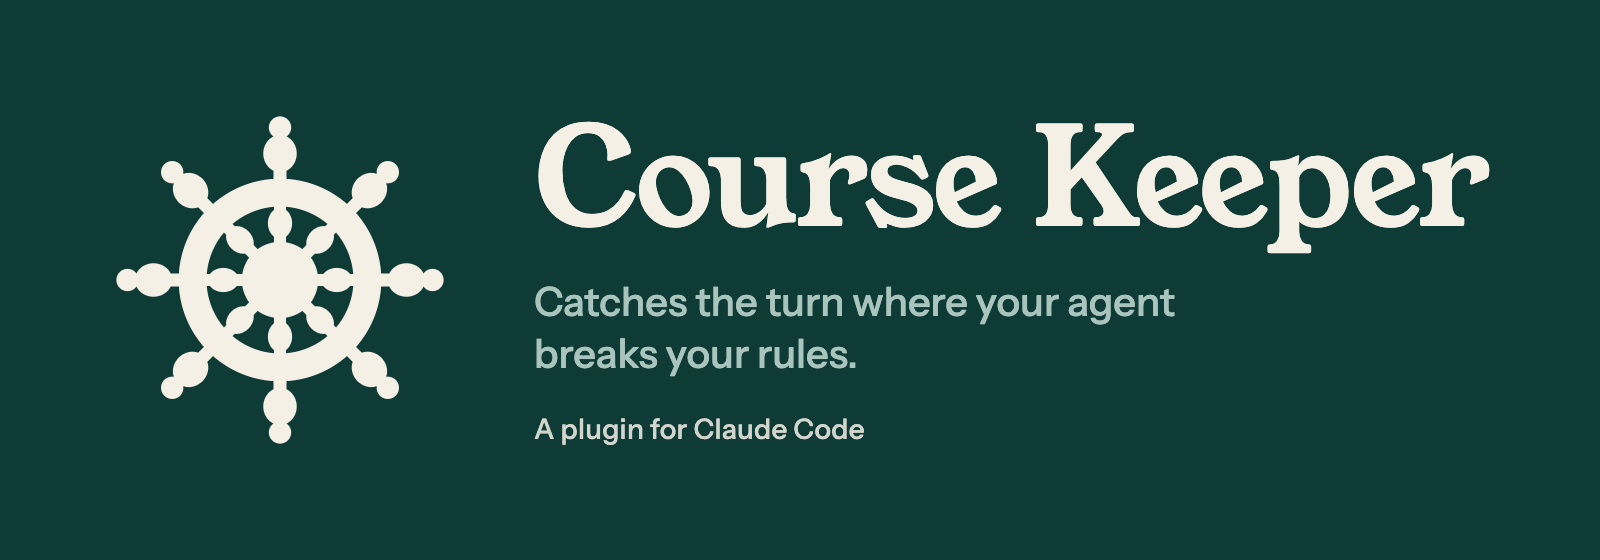
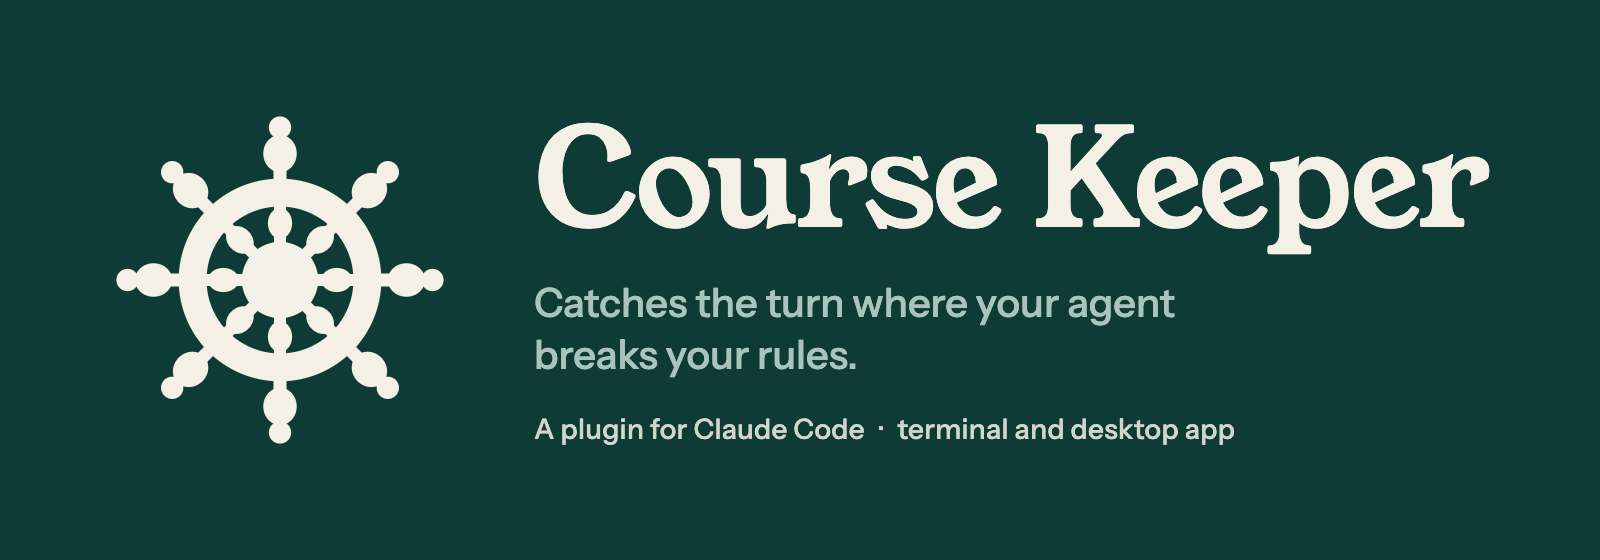
Show the README to desktop app users and how to install there (#22)
* Show the README to desktop app users and how to install there

The README spoke only to terminal users, so people who run Claude Code in
the desktop app could not tell that Course Keeper works there. The page now
opens with a real screenshot of the alert card in the desktop app (light and
dark), names both surfaces in the pitch and the banner, and gives install
steps for the desktop app's Plugins page next to the terminal command. How
it works explains the card's buttons beside the terminal keys, and Limits
says that cloud and WSL sessions get no plugins from the computer.

* Give the desktop install both menu layouts and the scope rule

Codex review: the + menu shows Plugins instead of Add plugins in some app
layouts, and only user scope makes one install cover every project.

* Name the Customize sidebar, the Details parts and the false-alarm confirm

Bounded re-review: the desktop sidebar can say Customize, the card shows
instead and the quote only under Details, False alarm needs a second
press, and the cloud limit holds for user and local scope.

---------

diff --git a/docs/images/source/banner.html b/docs/images/source/banner.html
@@ -13,5 +13,5 @@ p.by{color:var(--cream);font-size:calc(var(--t)*.7);margin-top:calc(var(--tgap)*
 </style></head><body style="--pad:110px;--gap:84px;--wheel:340px;--h:136px;--t:40px;--tgap:28px;--measure:900px">
 <div class="wheel"><svg viewBox="0 0 1024 1024" xmlns="http://www.w3.org/2000/svg"><g transform="translate(512 512) scale(1.4)" fill="#F4F0E6"><circle r="188" fill="none" stroke="#F4F0E6" stroke-width="60"/><circle r="82"/><g transform="rotate(0)"><rect x="-13" y="-170" width="26" height="100"/><ellipse cx="0" cy="-122" rx="26" ry="33"/><rect x="-14" y="-250" width="28" height="40"/><ellipse cx="0" cy="-272" rx="36" ry="40"/><rect x="-11" y="-320" width="22" height="22"/><circle cx="0" cy="-328" r="24"/></g><g transform="rotate(45)"><rect x="-13" y="-170" width="26" height="100"/><ellipse cx="0" cy="-122" rx="26" ry="33"/><rect x="-14" y="-250" width="28" height="40"/><ellipse cx="0" cy="-272" rx="36" ry="40"/><rect x="-11" y="-320" width="22" height="22"/><circle cx="0" cy="-328" r="24"/></g><g transform="rotate(90)"><rect x="-13" y="-170" width="26" height="100"/><ellipse cx="0" cy="-122" rx="26" ry="33"/><rect x="-14" y="-250" width="28" height="40"/><ellipse cx="0" cy="-272" rx="36" ry="40"/><rect x="-11" y="-320" width="22" height="22"/><circle cx="0" cy="-328" r="24"/></g><g transform="rotate(135)"><rect x="-13" y="-170" width="26" height="100"/><ellipse cx="0" cy="-122" rx="26" ry="33"/><rect x="-14" y="-250" width="28" height="40"/><ellipse cx="0" cy="-272" rx="36" ry="40"/><rect x="-11" y="-320" width="22" height="22"/><circle cx="0" cy="-328" r="24"/></g><g transform="rotate(180)"><rect x="-13" y="-170" width="26" height="100"/><ellipse cx="0" cy="-122" rx="26" ry="33"/><rect x="-14" y="-250" width="28" height="40"/><ellipse cx="0" cy="-272" rx="36" ry="40"/><rect x="-11" y="-320" width="22" height="22"/><circle cx="0" cy="-328" r="24"/></g><g transform="rotate(225)"><rect x="-13" y="-170" width="26" height="100"/><ellipse cx="0" cy="-122" rx="26" ry="33"/><rect x="-14" y="-250" width="28" height="40"/><ellipse cx="0" cy="-272" rx="36" ry="40"/><rect x="-11" y="-320" width="22" height="22"/><circle cx="0" cy="-328" r="24"/></g><g transform="rotate(270)"><rect x="-13" y="-170" width="26" height="100"/><ellipse cx="0" cy="-122" rx="26" ry="33"/><rect x="-14" y="-250" width="28" height="40"/><ellipse cx="0" cy="-272" rx="36" ry="40"/><rect x="-11" y="-320" width="22" height="22"/><circle cx="0" cy="-328" r="24"/></g><g transform="rotate(315)"><rect x="-13" y="-170" width="26" height="100"/><ellipse cx="0" cy="-122" rx="26" ry="33"/><rect x="-14" y="-250" width="28" height="40"/><ellipse cx="0" cy="-272" rx="36" ry="40"/><rect x="-11" y="-320" width="22" height="22"/><circle cx="0" cy="-328" r="24"/></g></g></svg></div>
 <div><h1>Course Keeper</h1>
-<p>Catches the turn where your agent<br>breaks your rules.</p><p class="by">A plugin for Claude Code</p></div>
+<p>Catches the turn where your agent<br>breaks your rules.</p><p class="by">A plugin for Claude Code&ensp;·&ensp;terminal and desktop app</p></div>
 </body></html>

diff --git a/docs/images/source/social-preview.html b/docs/images/source/social-preview.html
@@ -13,5 +13,5 @@ p.by{color:var(--cream);font-size:calc(var(--t)*.7);margin-top:calc(var(--tgap)*
 </style></head><body style="--pad:96px;--gap:72px;--wheel:320px;--h:108px;--t:34px;--tgap:24px;--measure:660px">
 <div class="wheel"><svg viewBox="0 0 1024 1024" xmlns="http://www.w3.org/2000/svg"><g transform="translate(512 512) scale(1.4)" fill="#F4F0E6"><circle r="188" fill="none" stroke="#F4F0E6" stroke-width="60"/><circle r="82"/><g transform="rotate(0)"><rect x="-13" y="-170" width="26" height="100"/><ellipse cx="0" cy="-122" rx="26" ry="33"/><rect x="-14" y="-250" width="28" height="40"/><ellipse cx="0" cy="-272" rx="36" ry="40"/><rect x="-11" y="-320" width="22" height="22"/><circle cx="0" cy="-328" r="24"/></g><g transform="rotate(45)"><rect x="-13" y="-170" width="26" height="100"/><ellipse cx="0" cy="-122" rx="26" ry="33"/><rect x="-14" y="-250" width="28" height="40"/><ellipse cx="0" cy="-272" rx="36" ry="40"/><rect x="-11" y="-320" width="22" height="22"/><circle cx="0" cy="-328" r="24"/></g><g transform="rotate(90)"><rect x="-13" y="-170" width="26" height="100"/><ellipse cx="0" cy="-122" rx="26" ry="33"/><rect x="-14" y="-250" width="28" height="40"/><ellipse cx="0" cy="-272" rx="36" ry="40"/><rect x="-11" y="-320" width="22" height="22"/><circle cx="0" cy="-328" r="24"/></g><g transform="rotate(135)"><rect x="-13" y="-170" width="26" height="100"/><ellipse cx="0" cy="-122" rx="26" ry="33"/><rect x="-14" y="-250" width="28" height="40"/><ellipse cx="0" cy="-272" rx="36" ry="40"/><rect x="-11" y="-320" width="22" height="22"/><circle cx="0" cy="-328" r="24"/></g><g transform="rotate(180)"><rect x="-13" y="-170" width="26" height="100"/><ellipse cx="0" cy="-122" rx="26" ry="33"/><rect x="-14" y="-250" width="28" height="40"/><ellipse cx="0" cy="-272" rx="36" ry="40"/><rect x="-11" y="-320" width="22" height="22"/><circle cx="0" cy="-328" r="24"/></g><g transform="rotate(225)"><rect x="-13" y="-170" width="26" height="100"/><ellipse cx="0" cy="-122" rx="26" ry="33"/><rect x="-14" y="-250" width="28" height="40"/><ellipse cx="0" cy="-272" rx="36" ry="40"/><rect x="-11" y="-320" width="22" height="22"/><circle cx="0" cy="-328" r="24"/></g><g transform="rotate(270)"><rect x="-13" y="-170" width="26" height="100"/><ellipse cx="0" cy="-122" rx="26" ry="33"/><rect x="-14" y="-250" width="28" height="40"/><ellipse cx="0" cy="-272" rx="36" ry="40"/><rect x="-11" y="-320" width="22" height="22"/><circle cx="0" cy="-328" r="24"/></g><g transform="rotate(315)"><rect x="-13" y="-170" width="26" height="100"/><ellipse cx="0" cy="-122" rx="26" ry="33"/><rect x="-14" y="-250" width="28" height="40"/><ellipse cx="0" cy="-272" rx="36" ry="40"/><rect x="-11" y="-320" width="22" height="22"/><circle cx="0" cy="-328" r="24"/></g></g></svg></div>
 <div><h1>Course Keeper</h1>
-<p>Catches the turn where your agent<br>breaks your rules.</p><p class="by">A plugin for Claude Code</p></div>
+<p>Catches the turn where your agent<br>breaks your rules.</p><p class="by">A plugin for Claude Code&ensp;·&ensp;terminal and desktop app</p></div>
 </body></html>

diff --git a/README.md b/README.md
@@ -1,26 +1,39 @@
 <p align="center">
-  <img src="docs/images/banner.png" alt="Course Keeper. Catches the turn where your agent breaks your rules. A plugin for Claude Code." width="800">
+  <img src="docs/images/banner.png" alt="Course Keeper. Catches the turn where your agent breaks your rules. A plugin for Claude Code, in the terminal and the desktop app." width="800">
 </p>
 
 You wrote down how your project works. One module handles money. The tool never sends an invoice. Three hours into a session, your agent takes a shortcut that breaks one of those rules, and you find it in review the next day.
 
-**Course Keeper checks every turn of a Claude Code session against your project's rules.** When the agent breaks one, an alert appears above the prompt at that turn. It names the rule, says what the agent is doing and what it should do instead, and quotes the agent. One key sends that note to the agent.
+**Course Keeper checks every turn of a Claude Code session against your project's rules, in the terminal and in the Claude desktop app.** When the agent breaks one, an alert appears above the prompt at that turn. It names the rule and says what the agent is doing. It also says what the agent should do instead and quotes the agent; in the desktop app, **Details** shows those two parts. One click or key sends that note to the agent.
 
-![A Claude Code session. The agent proposes to round invoice totals in the exporter. Below its answer, a framed Course Keeper alert says that the session breaks invariant 1, "One module computes every amount", states what the agent is doing and what it should do instead, quotes the agent, and offers four buttons: Tell the agent, Details, False alarm and Dismiss.](docs/images/alert.png)
+<p align="center">
+  <picture>
+    <source media="(prefers-color-scheme: dark)" srcset="docs/images/desktop-alert-dark.png">
+    <img src="docs/images/desktop-alert-light.png" width="720" alt="A Claude Code session in the Claude desktop app. The person asks the agent to print the VAT under the invoice total and to change only exporter.py. The agent computes the VAT in exporter.py. Above the prompt, a Course Keeper card says that the session breaks the rule &quot;One module computes every amount&quot;, says that the session added VAT math to exporter.py instead of money.py, offers three buttons, Tell the agent, Details and False alarm, and has a close button.">
+  </picture>
+</p>
 
-<sub>The agent's one-line fix rounds money outside the one module that the project's rule allows. The session is staged with a scripted model reply.</sub>
+<sub>Told to change only `exporter.py`, the agent computes the VAT there, outside the one module that the project's rule allows. The session ran live in the desktop app, on a throwaway project.</sub>
 
 ## Quick start
 
-You need Claude Code 2.1.323 or later (`claude --version`).
+You need Claude Code 2.1.323 or later. Check with `claude --version` in a shell, or with `/status` in a session of the desktop app.
 
-1. Install the plugin at the prompt of a Claude Code session:
+1. Install the plugin. The terminal and the desktop app on one computer share their plugins. Choose user scope, and one install covers every project in both; project and local scope apply to one repository.
+
+   **In the terminal**, at the prompt of a Claude Code session:
 
    ```
    /plugin install course-keeper --marketplace chapati23/course-keeper
    ```
 
    Answer `y` to add the marketplace, then choose a scope. Claude Code then asks for two file names; keep the defaults.
+
+   **In the desktop app**, in the **Code** tab:
+
+   1. Click **Plugins** (or **Customize**) in the sidebar, then **Add** › **Add marketplace** › **Add from a repository**.
+   2. Enter `chapati23/course-keeper` and click **Sync**.
+   3. Click **+** next to the prompt box, then **Add plugins**. If the menu shows **Plugins** instead, choose **Plugins** › **Browse plugins**, or **Manage plugins** when **Browse plugins** is missing. Select Course Keeper and choose a scope.
 
 2. Add a `VISION.md` at the root of your repository, with one rule per number:
 
@@ -48,7 +61,11 @@ Without `VISION.md`, Course Keeper does nothing in that project.
 ## How it works
 
 1. After each turn of the agent, Course Keeper asks the session's own model one question: did this turn break a rule in `VISION.md`, or an instruction you gave in this session?
-2. If it did, the alert appears. In the terminal, press `1` to tell the agent, `2` for details, `3` for a false alarm or `4` to dismiss; in the desktop app, click the button.
+2. If it did, the alert appears above the prompt. In the desktop app, it is a card: click **Tell the agent**, **Details** or **False alarm** (twice, to confirm), or ✕ to dismiss it. In the terminal, it is a framed row: press `1` to tell the agent, `2` for details, `3` twice for a false alarm or `4` to dismiss.
+
+![A Claude Code session in the terminal. The agent proposes to round invoice totals in the exporter. Below its answer, a framed Course Keeper alert says that the session breaks invariant 1, "One module computes every amount", states what the agent is doing and what it should do instead, quotes the agent, and offers four buttons: Tell the agent, Details, False alarm and Dismiss.](docs/images/alert.png)
+
+<sub>The same kind of alert in the terminal. The agent's one-line fix rounds money outside the one module that the project's rule allows. The session is staged with a scripted model reply.</sub>
 
 ![A message from the course-keeper plugin carries the alert's note to the agent, and the agent answers that rounding in the exporter would break invariant 1 and that it will round in the money module.](docs/images/tell-the-agent.png)
 
@@ -72,6 +89,8 @@ The replay tests ran on recorded sessions of one private project, and they are s
 
 ## Commands
 
+The commands work the same in the terminal and in the desktop app.
+
 | Command | What it does |
 | --- | --- |
 | `/course-keeper` | Shows the vision files found, the standing instructions, this session's alerts and the last check. |
@@ -92,6 +111,7 @@ The replay tests ran on recorded sessions of one private project, and they are s
 
 - The plugin API of Claude Code is early access and can change between releases.
 - VS Code has no row above the prompt. There, `/course-keeper` shows the alerts.
+- In the desktop app, a plugin you install on your computer for yourself (user or local scope) does not reach cloud sessions, and no plugin runs in WSL sessions.
 - Sessions without a person are skipped: `claude -p`, the Agent SDK, sessions that another session drives, and subagents.
 - A check reads only the conversation and the vision. It cannot read files or run commands, and it can be wrong. You decide. In a test on 2026-11-25, it ran twice on each of 8 turns that had been judged sound and raised no false alert ([details](docs/writing-rules.md#false-alerts)).
 
@@ -99,7 +119,7 @@ The replay tests ran on recorded sessions of one private project, and they are s
 
 - Checks for one session: `/course-keeper off`.
 - Everything for a project: remove or rename `VISION.md`.
-- Everything everywhere: `claude plugin disable course-keeper`, or `claude plugin uninstall course-keeper`.
+- Everything everywhere: `claude plugin disable course-keeper`, or `claude plugin uninstall course-keeper`. In the desktop app, use **Plugins** (or **Customize**) in the sidebar.
 
 ## Feedback
 

diff --git a/docs/reference.md b/docs/reference.md
@@ -18,6 +18,8 @@ claude plugin install course-keeper --marketplace chapati23/course-keeper
 
 Answer `y` to add the marketplace, then choose a scope. Update with `claude plugin update course-keeper`, then run `/reload-plugins` or start a new session.
 
+In the Code tab of the Claude desktop app: click **Plugins** (or **Customize**) in the sidebar, then **Add** › **Add marketplace** › **Add from a repository**. Enter `chapati23/course-keeper` and click **Sync**. Then click **+** next to the prompt box and choose **Add plugins**; if the menu shows **Plugins** instead, choose **Plugins** › **Browse plugins**, or **Manage plugins** when **Browse plugins** is missing. Select Course Keeper and choose a scope. The terminal and the desktop app's local sessions read the same settings files: at user scope a plugin installed in one is on in the other for every project, and at project or local scope for that repository only ([plugin install docs](https://code.claude.com/docs/en/plugins/install#choose-an-install-scope)). The desktop app runs its own copy of Claude Code; `/status` in a session shows its version.
+
 ## Settings
 
 Course Keeper has two settings. Claude Code asks for them when you install the plugin. To change them later, use the plugin's rows in the `/config` menu.
@@ -33,7 +35,7 @@ Each value is a path relative to the place where Course Keeper looks for the vis
 
 ## What you see
 
-When a check finds a deviation, a row above the prompt shows it, as in [the screenshot in the README](../README.md).
+When a check finds a deviation, a row above the prompt shows it, as in [the screenshots in the README](../README.md).
 
 The top rule names the invariant, or says that the session breaks your instruction. The next line quotes the invariant's title, or the words of the standing instruction. The title is the invariant's bold lead in VISION.md, or else its first sentence, as the check read it; without a title the line is left out. Each part below starts with its heading in bold. The parts give what the agent did, what the invariant or the instruction asks for instead, and the evidence: what the agent wrote, in quotation marks. The "instead" part is left out when the check gave no such text. An empty line separates the frame from the transcript above and the prompt below. The frame is at most 100 columns wide. When it would not fit the space above the prompt, it drops its empty lines; when it still does not fit, the buttons move into its first line. Either way the buttons stay in view, and their keys work. The quote drops the agent's Markdown marks (`**`, `_`, backticks), so it reads as the transcript shows it.
 
@@ -77,6 +79,7 @@ Both calls are billed to the session's credentials and count in `/usage`. A chec
 
 - The plugin API of Claude Code is early access and can change between releases. The plugin needs Claude Code 2.1.323 or later.
 - VS Code has no row above the prompt. There, and on any surface without the row, an alert still exists: `/course-keeper` shows it.
+- In the desktop app, a plugin you install on your computer for yourself (user or local scope) does not reach cloud sessions, and no plugin runs in WSL sessions.
 - Sessions without a person are skipped: `claude -p`, the Agent SDK, sessions that another session drives, and subagents. A session counts as having a person once a prompt arrives from the terminal prompt, from Remote Control, or from its owner in Slack.
 - A check reads only the conversation and the vision. It cannot read files or run commands, and it can be wrong. You decide.
 - The learn step tests a sentence only on excerpts of this session: the turn you corrected and up to 3 earlier turns. An alert in the test does not prove that the sentence names the right act. Whether an agent that reads the sentence avoids the act is not measured.

diff --git a/PRODUCT.md b/PRODUCT.md
@@ -37,7 +37,7 @@ A terminal session, the desktop app or VS Code. The only interface is one alert 
 
 ## Evidence on Hand
 
-Two staged screenshots of the alert are in `docs/images/`: a scripted model reply in the real Claude Code interface. Measurements of the check are in `docs/writing-rules.md`. No testimonials, customers or usage numbers exist; do not invent any.
+Screenshots of the alert are in `docs/images/`. Two terminal shots use a scripted model reply in the real Claude Code interface. Two desktop app shots (light and dark) show a live Haiku 5.5 session on a throwaway project. Measurements of the check are in `docs/writing-rules.md`. No testimonials, customers or usage numbers exist; do not invent any.
 
 ## Product Principles
 
